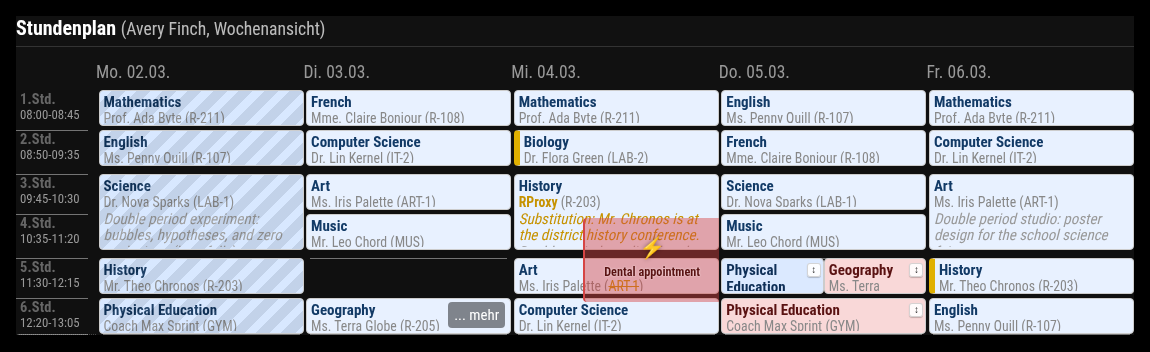
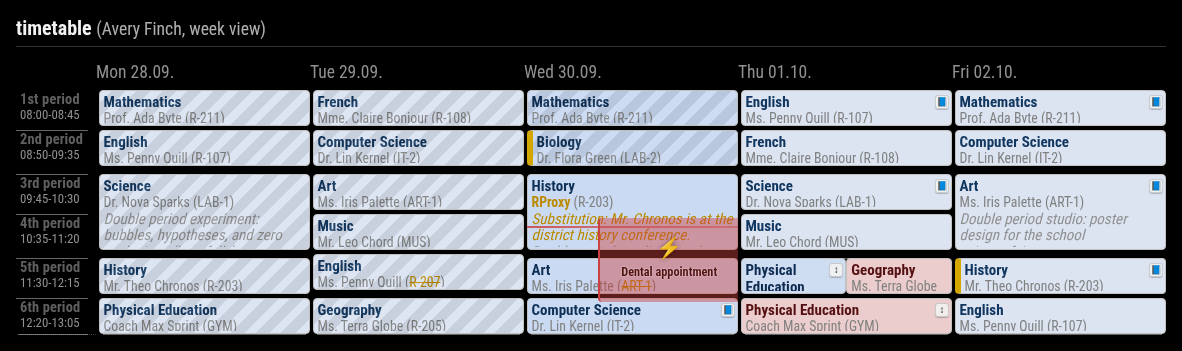
docs: refresh the screenshots with the English interface and the new demo week
The previous screenshots mixed a German interface with English demo data and predate the homework
markers and room information in the demo week.

diff --git a/README.md b/README.md
@@ -87,17 +87,19 @@ Technical background documentation remains in `docs/`:
 - [docs/ARCHITECTURE.md](docs/ARCHITECTURE.md)
 - [docs/CSS_CUSTOMIZATION.md](docs/CSS_CUSTOMIZATION.md)
 - [docs/CLI.md](docs/CLI.md)
+- [docs/SCREENSHOTS.md](docs/SCREENSHOTS.md)
 - [config/config.template.js](config/config.template.js)
 
 ## Screenshots
 
-All screenshots use the anonymized demo fixture (`demoDataFile`).
+All screenshots use the anonymized demo fixture (`demoDataFile`) and are regenerated with
+`node scripts/take-screenshots.mjs` — see [docs/SCREENSHOTS.md](docs/SCREENSHOTS.md).
 
-**Week view (grid)** — substitutions, absences, double periods and overflow hints:
+**Week view (grid)** — substitutions, room changes, cancelled and moved lessons, absences, exam and homework markers:
 
 ![Grid View](img/grid.png)
 
-**Lessons list** — teachers, lesson texts and substitution notes:
+**Lessons list** — teachers, rooms, lesson texts and substitution notes:
 
 ![Lessons](img/lessons.png)
 
